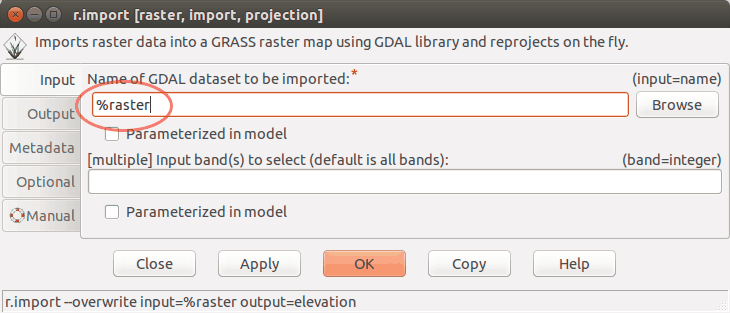
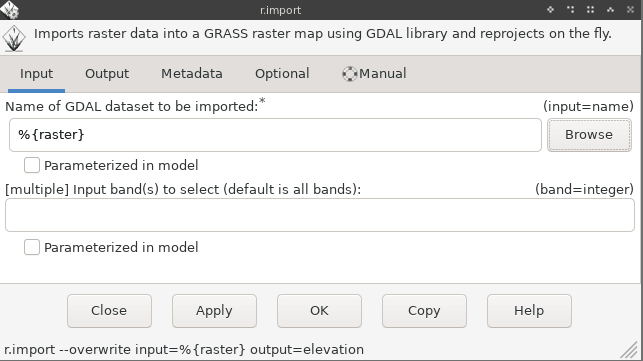
wxGUI/gmodeler: change syntax of variables (%variable -> %{variable}) (#5737)
fix #3870

beware: it breaks older models that used the previous syntax - but as that syntax was buggy, the back-support is not the right way, see #3870

---------

Changed region(s): [[0.0, 0.0, 1.0, 1.0]]

diff --git a/gui/wxpython/gmodeler/g.gui.gmodeler.html b/gui/wxpython/gmodeler/g.gui.gmodeler.html
@@ -295,13 +295,13 @@ there are <code>Variables</code>.
 </center>
 
 <p>
-The key point is the usage of <code>%</code> before the substituting variable and
-settings in the <code>Variables</code> dialog. For example, in the case of a model variable
-<code>raster</code> that points to an input file path and which value is required to be
-used as one of inputs for a particular model, it should be specified in the
-<code>Variables</code> dialog with its respective name (<code>raster</code>), data type,
-default value and description. Then it should be set in the module dialog as
-input called <code>%raster</code>.
+The key point is enclosing the substituting variable into <code>%{...}</code> and setting
+the value in the <code>Variables</code> dialog. For example, in the case of a model
+variable <code>raster</code> that points to an input file path and which value is
+required to be used as one of inputs for a particular model, it should be specified in
+the <code>Variables</code> dialog with its respective name (<code>raster</code>), data
+type, default value and description. Then it should be set in the module dialog as
+input called <code>%{raster}</code>.
 
 <center>
 <a href="g_gui_gmodeler_variables.png">
@@ -401,8 +401,8 @@ provides a predefined color table called <code>ndvi</code> to represent <i>ndvi 
 In this case it is not necessary to work with every image separately.
 <br>
 The Graphical Modeler is an appropriate tool to
-process data in an effective way using loop and variables (<code>%map</code> for a
-particular MODIS image in mapset and <code>%ndvi</code> for original data name suffix).
+process data in an effective way using loop and variables (<code>%{map}</code> for a
+particular MODIS image in mapset and <code>%{ndvi}</code> for original data name suffix).
 After the loop component is added to model, it is necessary to define series of maps
 with required settings of map type, mapset, etc.
 
@@ -450,11 +450,11 @@ The steps to enter in the command console of the Graphical Modeler would be as f
 # note that the white space usage differs from the standard command line usage
 
 # rename original image with preselected suffix
-g.rename raster = %map,%map.%ndvi
+g.rename raster = %{map},%{map}.%{ndvi}
 # convert integer values
-r.mapcalc expression = %map = %map.%ndvi * 0.0001
+r.mapcalc expression = %{map} = %{map}.%{ndvi} * 0.0001
 # set color table appropriate for nvdi data
-r.colors = map = %map color = ndvi
+r.colors = map = %{map} color = ndvi
 </pre></div>
 
 <h2>SEE ALSO</h2>

diff --git a/gui/wxpython/gmodeler/model.py b/gui/wxpython/gmodeler/model.py
@@ -471,7 +471,7 @@ class Model:
         errList = []
 
         variables = self.GetVariables().keys()
-        pattern = re.compile(r"(.*)(%.+\s?)(.*)")
+        pattern = re.compile(r"(.*)(%\{.+})(.*)")
         for action in self.GetItems(objType=ModelAction):
             cmd = action.GetLog(string=False)
 
@@ -486,7 +486,7 @@ class Model:
                 sval = pattern.search(value)
                 if not sval:
                     continue
-                var = sval.group(2).strip()[1:]  # strip '%' from beginning
+                var = sval.group(2).strip()[2:-1]  # strip '%{...}'
                 found = False
                 for v in variables:
                     if var.startswith(v):
@@ -539,7 +539,7 @@ class Model:
             write = False
             variables = self.GetVariables()
             for variable in variables:
-                pattern = re.compile("%" + variable)
+                pattern = re.compile("%{" + variable + "}")
                 value = ""
                 if params and "variables" in params:
                     for p in params["variables"]["params"]:
@@ -557,10 +557,10 @@ class Model:
                 if not checkOnly:
                     write = True
 
-            pattern = re.compile(r"(.*)(%.+\s?)(.*)")
+            pattern = re.compile(r"(.*)(%\{.+})(.*)")
             sval = pattern.search(data)
             if sval:
-                var = sval.group(2).strip()[1:]  # ignore '%'
+                var = sval.group(2).strip()[2:-1]  # ignore '%{...}'
                 cmd = item.GetLog(string=False)[0]
                 errList.append(cmd + ": " + _("undefined variable '%s'") % var)
 
@@ -690,7 +690,7 @@ class Model:
                 # substitute variables in condition
                 variables = self.GetVariables()
                 for variable in variables:
-                    pattern = re.compile("%" + variable)
+                    pattern = re.compile("%{" + variable + "}")
                     if not pattern.search(cond):
                         continue
                     value = ""
@@ -713,7 +713,7 @@ class Model:
                 # split condition
                 # TODO: this part needs some better solution
                 condVar, condText = (x.strip() for x in re.split(r"\s* in \s*", cond))
-                pattern = re.compile("%" + condVar)
+                pattern = re.compile("%{" + condVar + "}")
                 # for vars()[condVar] in eval(condText): ?
                 vlist = []
                 if condText[0] == "`" and condText[-1] == "`":

diff --git a/gui/wxpython/gmodeler/model_convert.py b/gui/wxpython/gmodeler/model_convert.py
@@ -56,7 +56,7 @@ class BaseModelConverter(ABC):
             # substitute condition
             cond = item.GetLabel()
             for variable in self.model.GetVariables():
-                pattern = re.compile("%" + variable)
+                pattern = re.compile("%{" + variable + "}")
                 if pattern.search(cond):
                     value = variables[variable].get("value", "")
                     if variables[variable].get("type", "string") == "string":
@@ -969,7 +969,7 @@ if __name__ == "__main__":
             # check for variables
             formattedVar = False
             for var in variables["vars"]:
-                pattern = re.compile("%" + var)
+                pattern = re.compile("%{" + var + "}")
                 found = pattern.search(value)
                 if found:
                     foundVar = True

diff --git a/gui/wxpython/gmodeler/model_items.py b/gui/wxpython/gmodeler/model_items.py
@@ -347,7 +347,7 @@ class ModelAction(ModelObject, ogl.DividedShape):
 
             # order variables by length
             for variable in sorted(variables, key=len, reverse=True):
-                pattern = re.compile("%" + variable)
+                pattern = re.compile("%{" + variable + "}")
                 value = ""
                 if substitute and "variables" in substitute:
                     for p in substitute["variables"]["params"]:

diff --git a/gui/wxpython/gmodeler/g.gui.gmodeler.md b/gui/wxpython/gmodeler/g.gui.gmodeler.md
@@ -241,13 +241,13 @@ there are `Variables`.
 ![Model with variable inputs](g_gui_gmodeler_variables_run.png)  
 *Figure: Model with variable inputs.*
 
-The key point is the usage of `%` before the substituting variable and
-settings in the `Variables` dialog. For example, in the case of a model
-variable `raster` that points to an input file path and which value is
-required to be used as one of inputs for a particular model, it should
-be specified in the `Variables` dialog with its respective name
-(`raster`), data type, default value and description. Then it should be
-set in the module dialog as input called `%raster`.
+The key point is enclosing the substituting variable into `%{...}` and
+setting the value in the `Variables` dialog. For example, in the case
+of a model variable `raster` that points to an input file path and
+which value is required to be used as one of inputs for a particular
+model, it should be specified in the `Variables` dialog with its
+respective name (`raster`), data type, default value and description.
+Then it should be set in the module dialog as input called `%{raster}`.
 
 ![Example of raster file variable settings](g_gui_gmodeler_variables.png)  
 *Figure: Example of raster file variable settings.*
@@ -325,8 +325,8 @@ represent real *ndvi values*. Moreover, GRASS GIS provides a predefined
 color table called `ndvi` to represent *ndvi data*. In this case it is
 not necessary to work with every image separately.  
 The Graphical Modeler is an appropriate tool to process data in an
-effective way using loop and variables (`%map` for a particular MODIS
-image in mapset and `%ndvi` for original data name suffix). After the
+effective way using loop and variables (`%{map}` for a particular MODIS
+image in mapset and `%{ndvi}` for original data name suffix). After the
 loop component is added to model, it is necessary to define series of
 maps with required settings of map type, mapset, etc.
 
@@ -358,11 +358,11 @@ be as follows:
 # note that the white space usage differs from the standard command line usage
 
 # rename original image with preselected suffix
-g.rename raster = %map,%map.%ndvi
+g.rename raster = %{map},%{map}.%{ndvi}
 # convert integer values
-r.mapcalc expression = %map = %map.%ndvi * 0.0001
+r.mapcalc expression = %{map} = %{map}.%{ndvi} * 0.0001
 # set color table appropriate for nvdi data
-r.colors = map = %map color = ndvi
+r.colors = map = %{map} color = ndvi
 ```
 
 ## SEE ALSO
